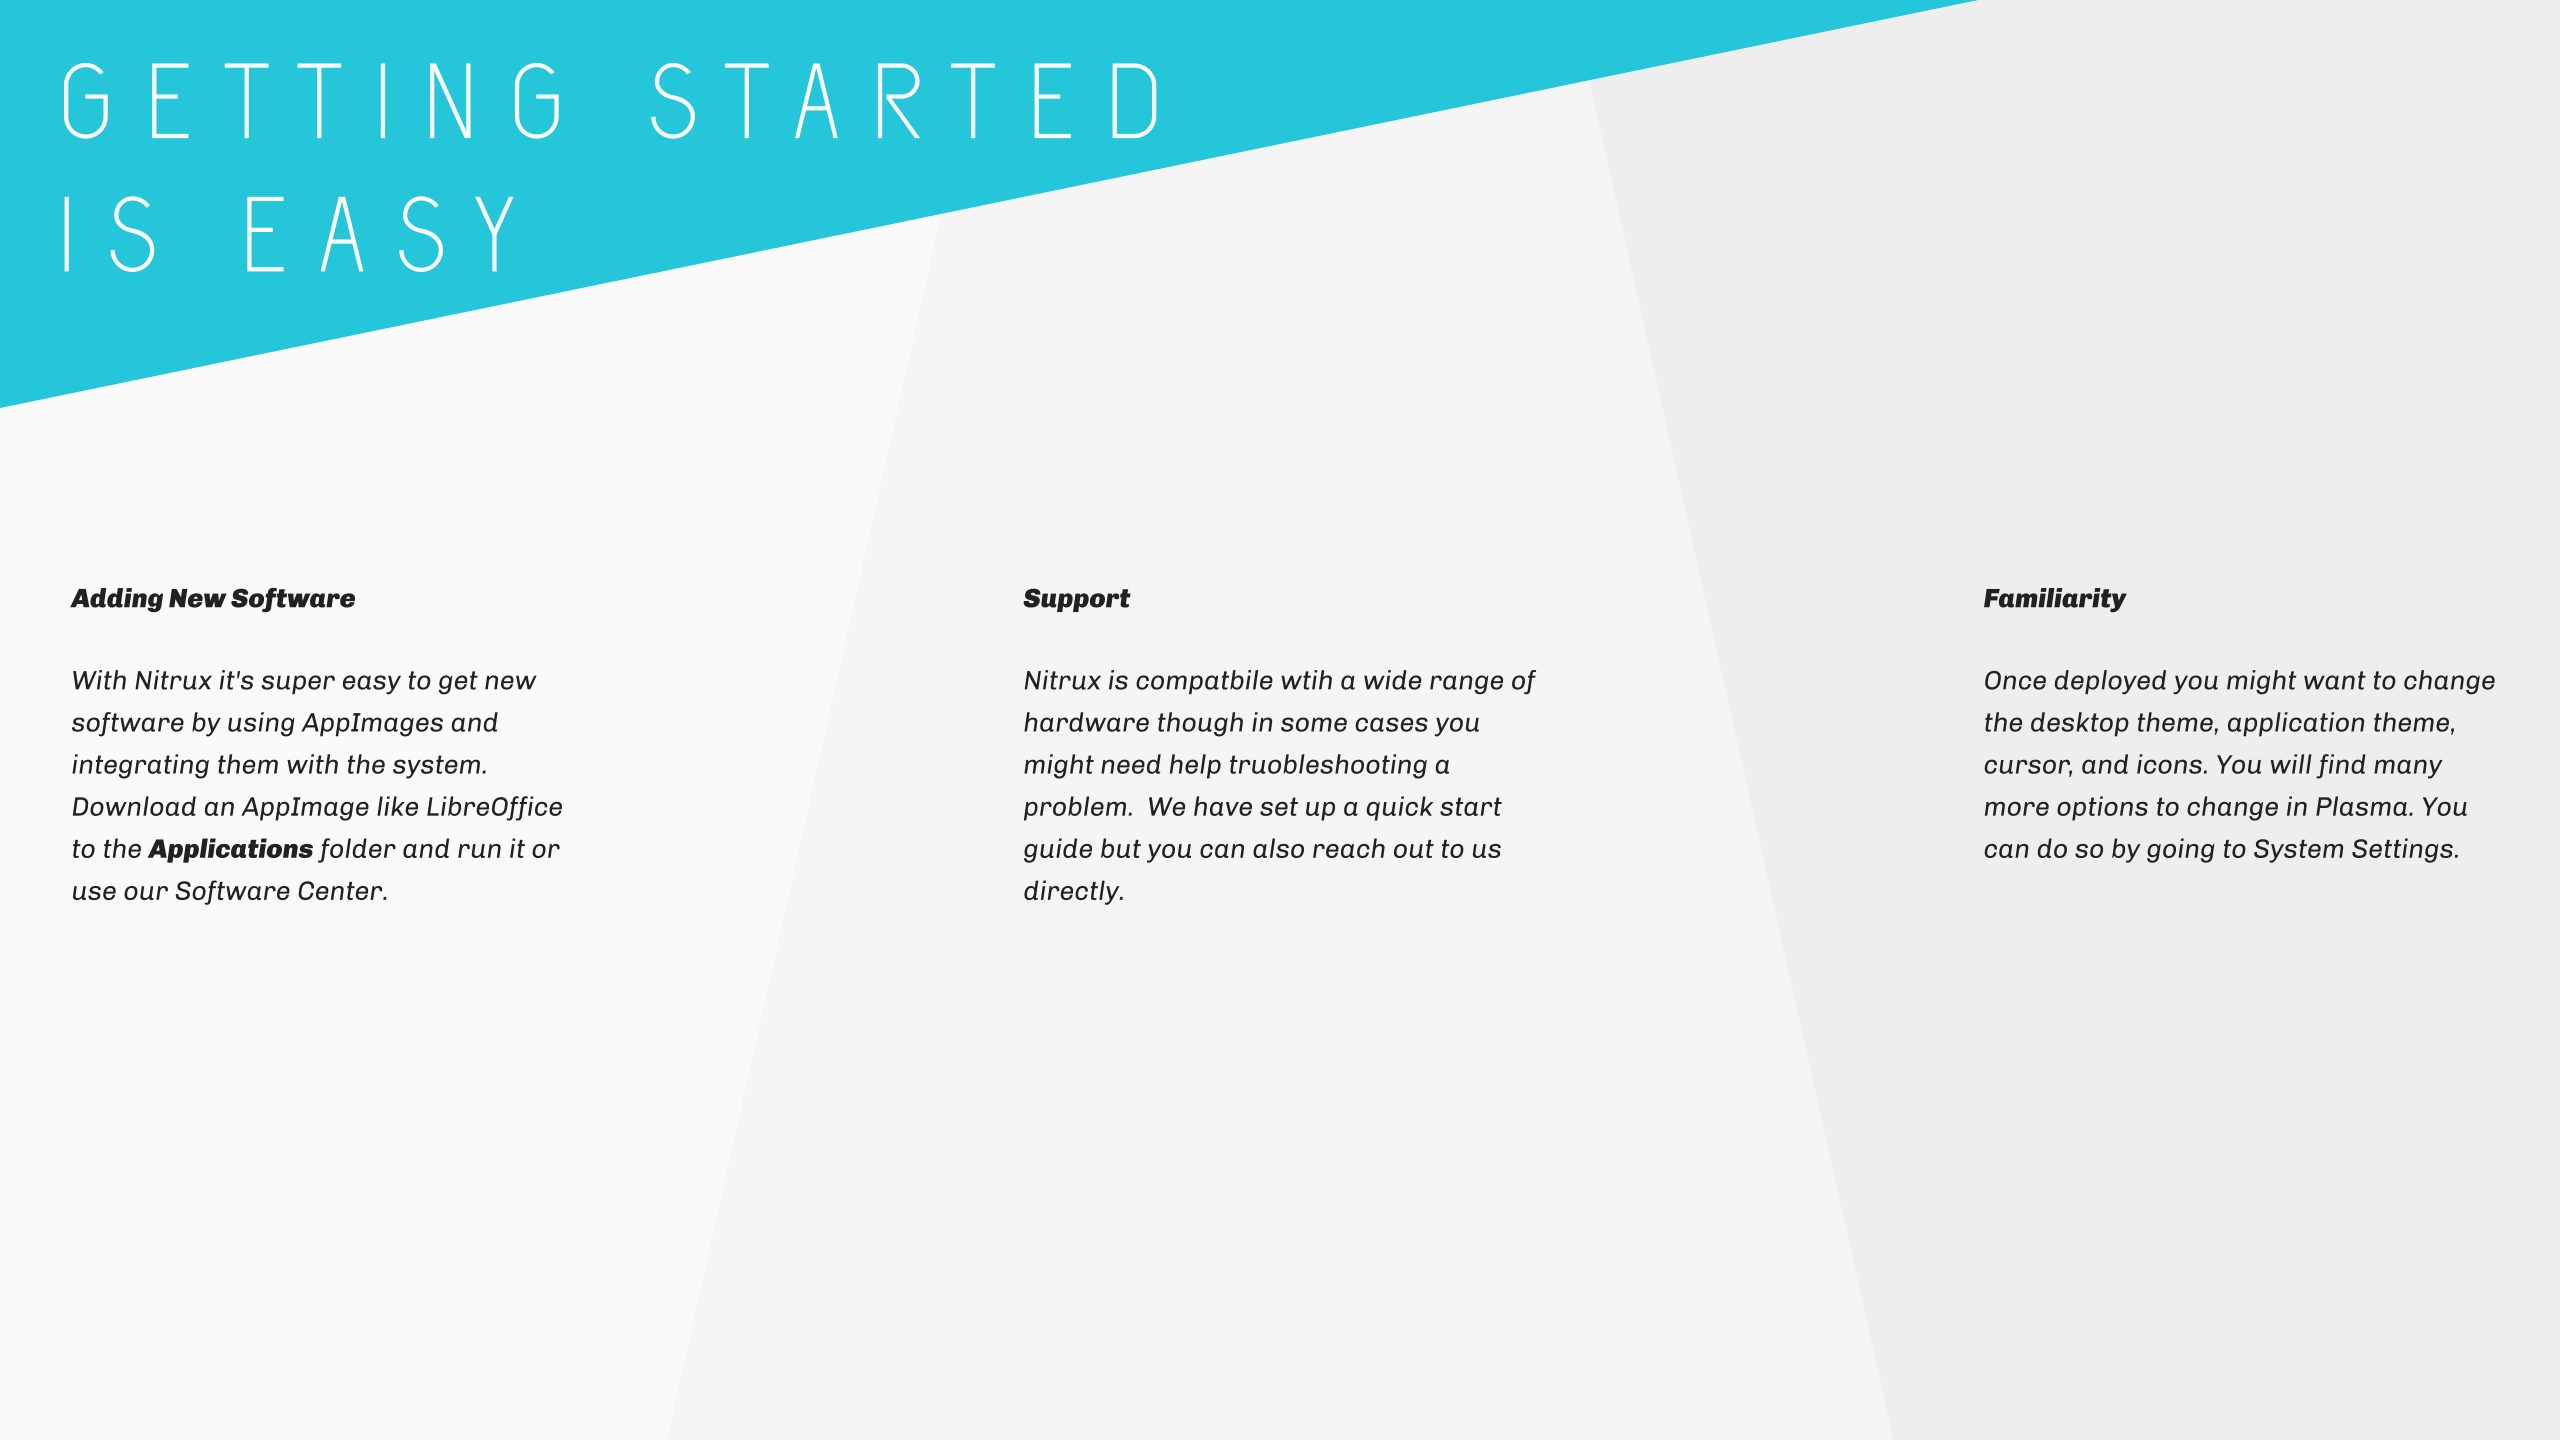
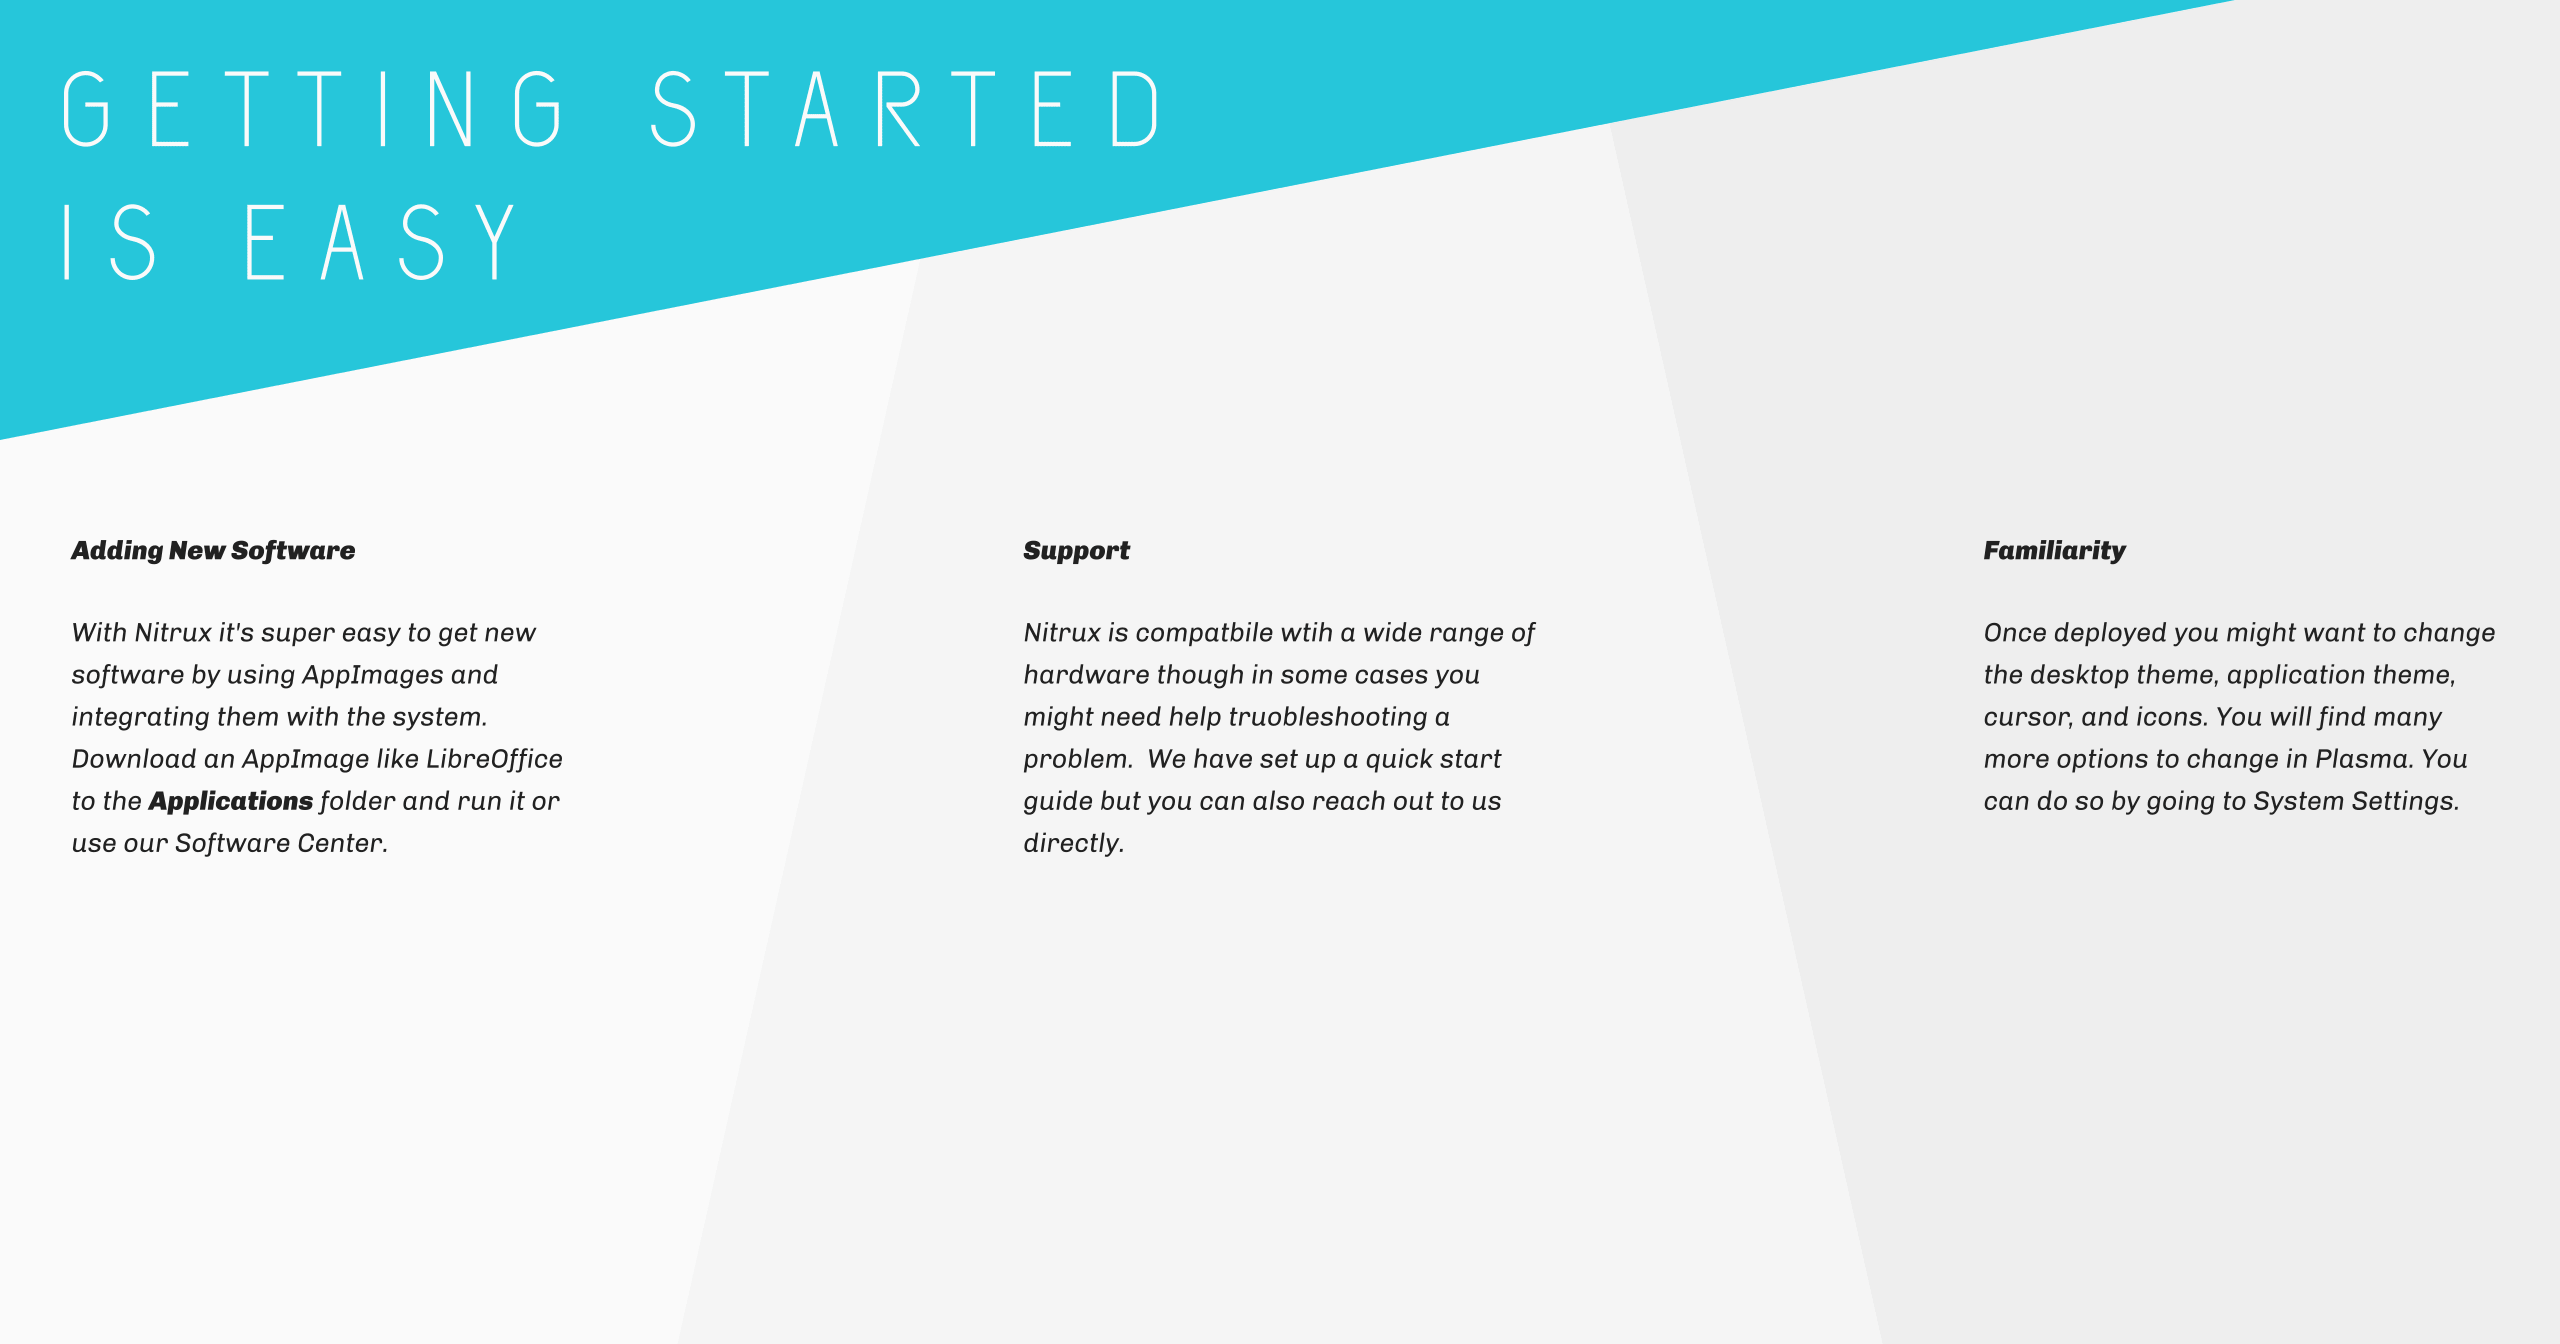
update images

diff --git a/ui/qml/Page6.qml b/ui/qml/Page6.qml
@@ -6,7 +6,7 @@ import org.nxos.welcomewizard 1.0 as WelcomeWizard
 
 Page {
     width: 2560
-    height: 1440
+    height: 1344
 
     MessageDialog {
         id: errorDialog

diff --git a/ui/qml/Page1.qml b/ui/qml/Page1.qml
@@ -3,7 +3,7 @@ import QtQuick.Controls 2.3
 
 Page {
     width: 2560
-    height: 1440
+    height: 1344
 
     Image {
         anchors.fill: parent

diff --git a/ui/qml/Page2.qml b/ui/qml/Page2.qml
@@ -3,7 +3,7 @@ import QtQuick.Controls 2.3
 
 Page {
     width: 2560
-    height: 1440
+    height: 1344
 
     Image {
         anchors.fill: parent

diff --git a/ui/qml/Page3.qml b/ui/qml/Page3.qml
@@ -3,7 +3,7 @@ import QtQuick.Controls 2.3
 
 Page {
     width: 2560
-    height: 1440
+    height: 1344
 
     Image {
         anchors.fill: parent

diff --git a/ui/qml/Page4.qml b/ui/qml/Page4.qml
@@ -3,7 +3,7 @@ import QtQuick.Controls 2.3
 
 Page {
     width: 2560
-    height: 1440
+    height: 1344
 
     Image {
         anchors.fill: parent

diff --git a/ui/qml/Page5.qml b/ui/qml/Page5.qml
@@ -3,7 +3,7 @@ import QtQuick.Controls 2.3
 
 Page {
     width: 2560
-    height: 1440
+    height: 1344
 
     Image {
         anchors.fill: parent
